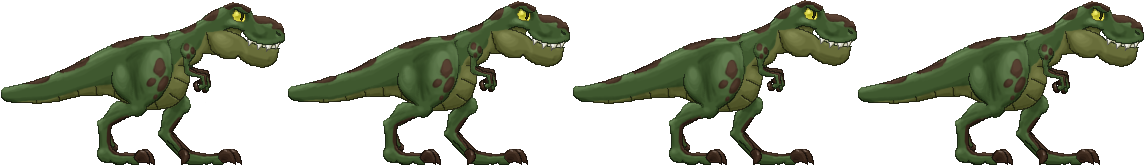
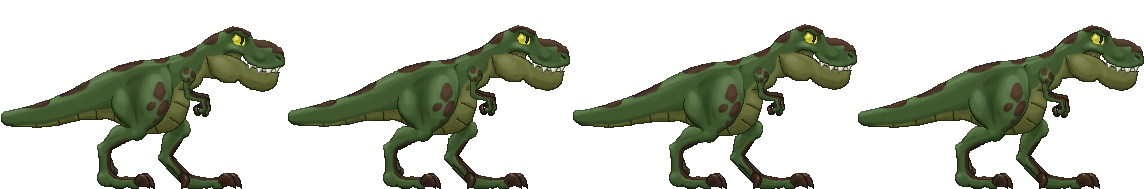
contrasaurus turns to face the direction he throws his weapon. Also realigned the idle animations

diff --git a/src/javascripts/contrasaurus/projectiles/thrown_item.js b/src/javascripts/contrasaurus/projectiles/thrown_item.js
@@ -5,10 +5,20 @@ function ThrownItem(I) {
   // make csour turn if you throw it behind you
 
   var position = dino.position();
+  var levelPosition = currentLevel.position();
+
+  var throwAngle = Point.direction(position, target.add(levelPosition));
+
+  if ((Math.cos(throwAngle) < 0 && dino.xVelocity() >= 0) || (Math.cos(throwAngle) >= 0 && dino.xVelocity() < 0)) {
+    var dinoVelocity = dino.xVelocity();
+    dino.xVelocity(-1 * dinoVelocity);
+  }
+
+  var throwSpeed = Point.distance(position, target.add(levelPosition)) / 10;
 
   $.reverseMerge(I, {
-    speed: 20,
-    theta: Point.direction(position, target.add(currentLevel.position())),
+    speed: throwSpeed,
+    theta: throwAngle,
     weaponName: "battleAxe"
   });
 

diff --git a/src/javascripts/contrasaurus/dinosaur.js b/src/javascripts/contrasaurus/dinosaur.js
@@ -279,6 +279,10 @@ function Dinosaur() {
           I.xVelocity = 0;
         }
 
+        if(I.xVelocity != 0) {
+          lastDirection = I.xVelocity;
+        }
+
         currentHealth = I.health;
       }
     },
@@ -291,9 +295,6 @@ function Dinosaur() {
       },
       update: function(levelPosition) {
         // Choose correct animation and hitFrames
-        if(I.xVelocity != 0) {
-          lastDirection = I.xVelocity;
-        }
 
         if(biteCounter > 0) {
           biteCounter--;
